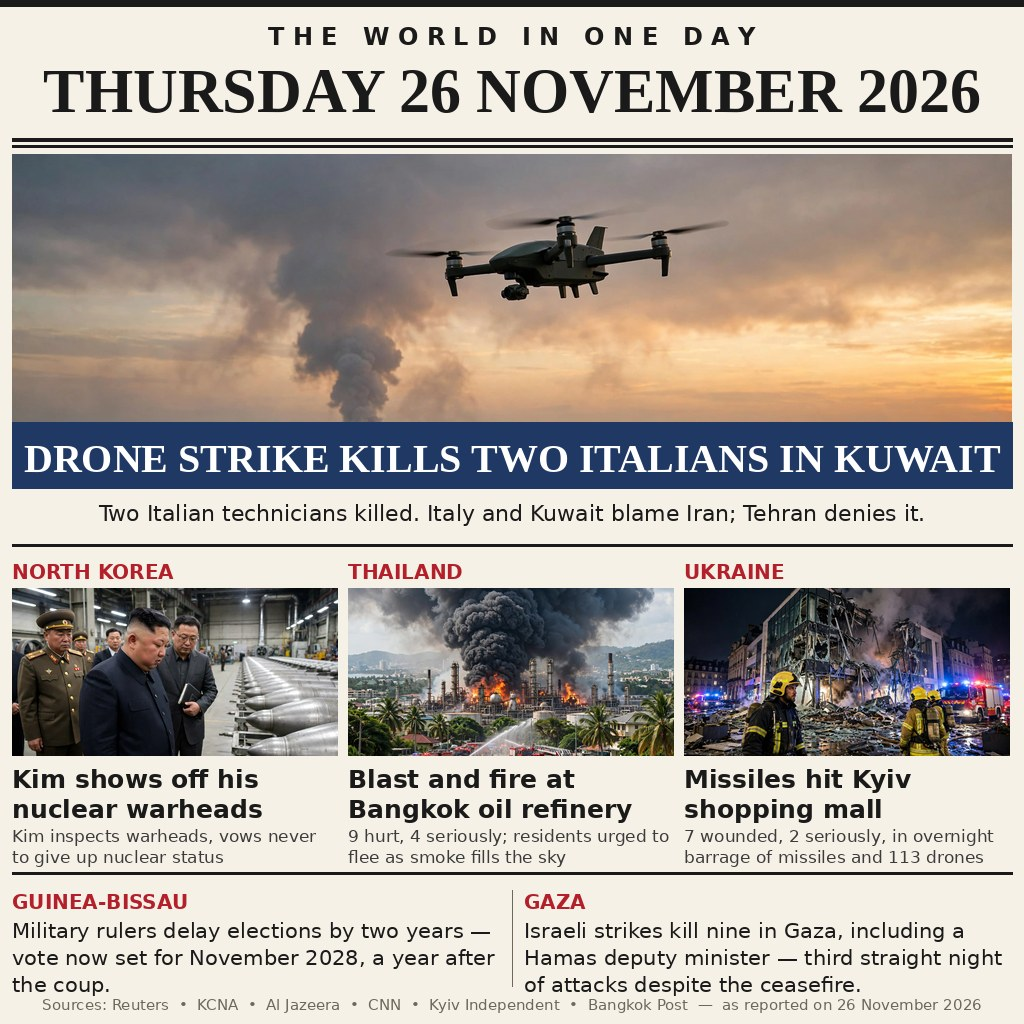
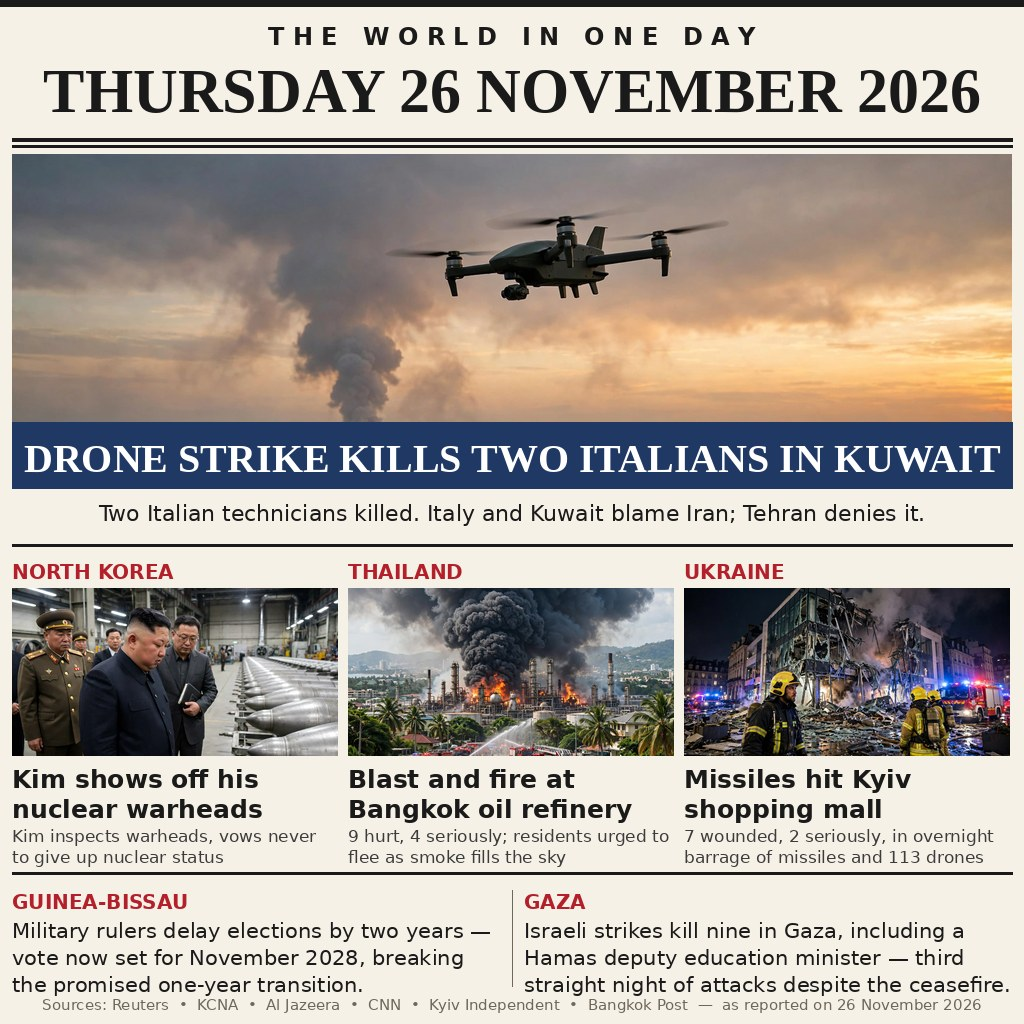
Fix Guinea-Bissau date wording; name Gaza deputy education minister; verify copy byte-identical

Changed region(s): [[0.5, 0.9062, 1.0, 0.9688], [0.0625, 0.9375, 0.3438, 0.9688], [0.375, 0.9062, 0.4688, 0.9688]]

diff --git a/main.ts b/main.ts
@@ -8,17 +8,30 @@
 // against reporting from Reuters, KCNA, Al Jazeera, CNN, Kyiv Independent and the
 // Bangkok Post that day. Stories first reported on another day (the Cairo tanker
 // fire and the US tariff announcement, both 25 November) were deliberately left out.
-// The program copies it to /output/entry.png. Node 22, standard library only, no
-// network, deterministic: the same bytes are written on every run.
+// The program copies it to /output/entry.png, then verifies the copy is
+// byte-identical to the source, failing loudly instead of shipping a
+// truncated image. Node 22, standard library only, no network, deterministic:
+// the same bytes are written on every run.
+//
+// Revised in a second pass: the Guinea-Bissau strip now says the delay breaks
+// the promised one-year transition (the coup was in November 2025, so the old
+// "a year after the coup" misread the new November 2028 date), and the Gaza
+// strip names the deputy education minister rather than a deputy minister in
+// general. Both wordings were checked against Reuters reporting of 26 November.
 //
 // Outside the grader's container, MAKEFUN_OUTPUT_DIR stands in for /output:
 //   mkdir -p out && MAKEFUN_OUTPUT_DIR=out node main.ts
 
-import { copyFileSync, mkdirSync } from 'node:fs';
+import { copyFileSync, mkdirSync, readFileSync } from 'node:fs';
 import { dirname, join } from 'node:path';
 import { fileURLToPath } from 'node:url';
 
 const here = dirname(fileURLToPath(import.meta.url));
 const outDir = process.env.MAKEFUN_OUTPUT_DIR ?? '/output';
 mkdirSync(outDir, { recursive: true });
-copyFileSync(join(here, 'entry.png'), join(outDir, 'entry.png'));
+const src = join(here, 'entry.png');
+const dst = join(outDir, 'entry.png');
+copyFileSync(src, dst);
+if (!readFileSync(src).equals(readFileSync(dst))) {
+  throw new Error('entry.png copy is not byte-identical to the source');
+}
